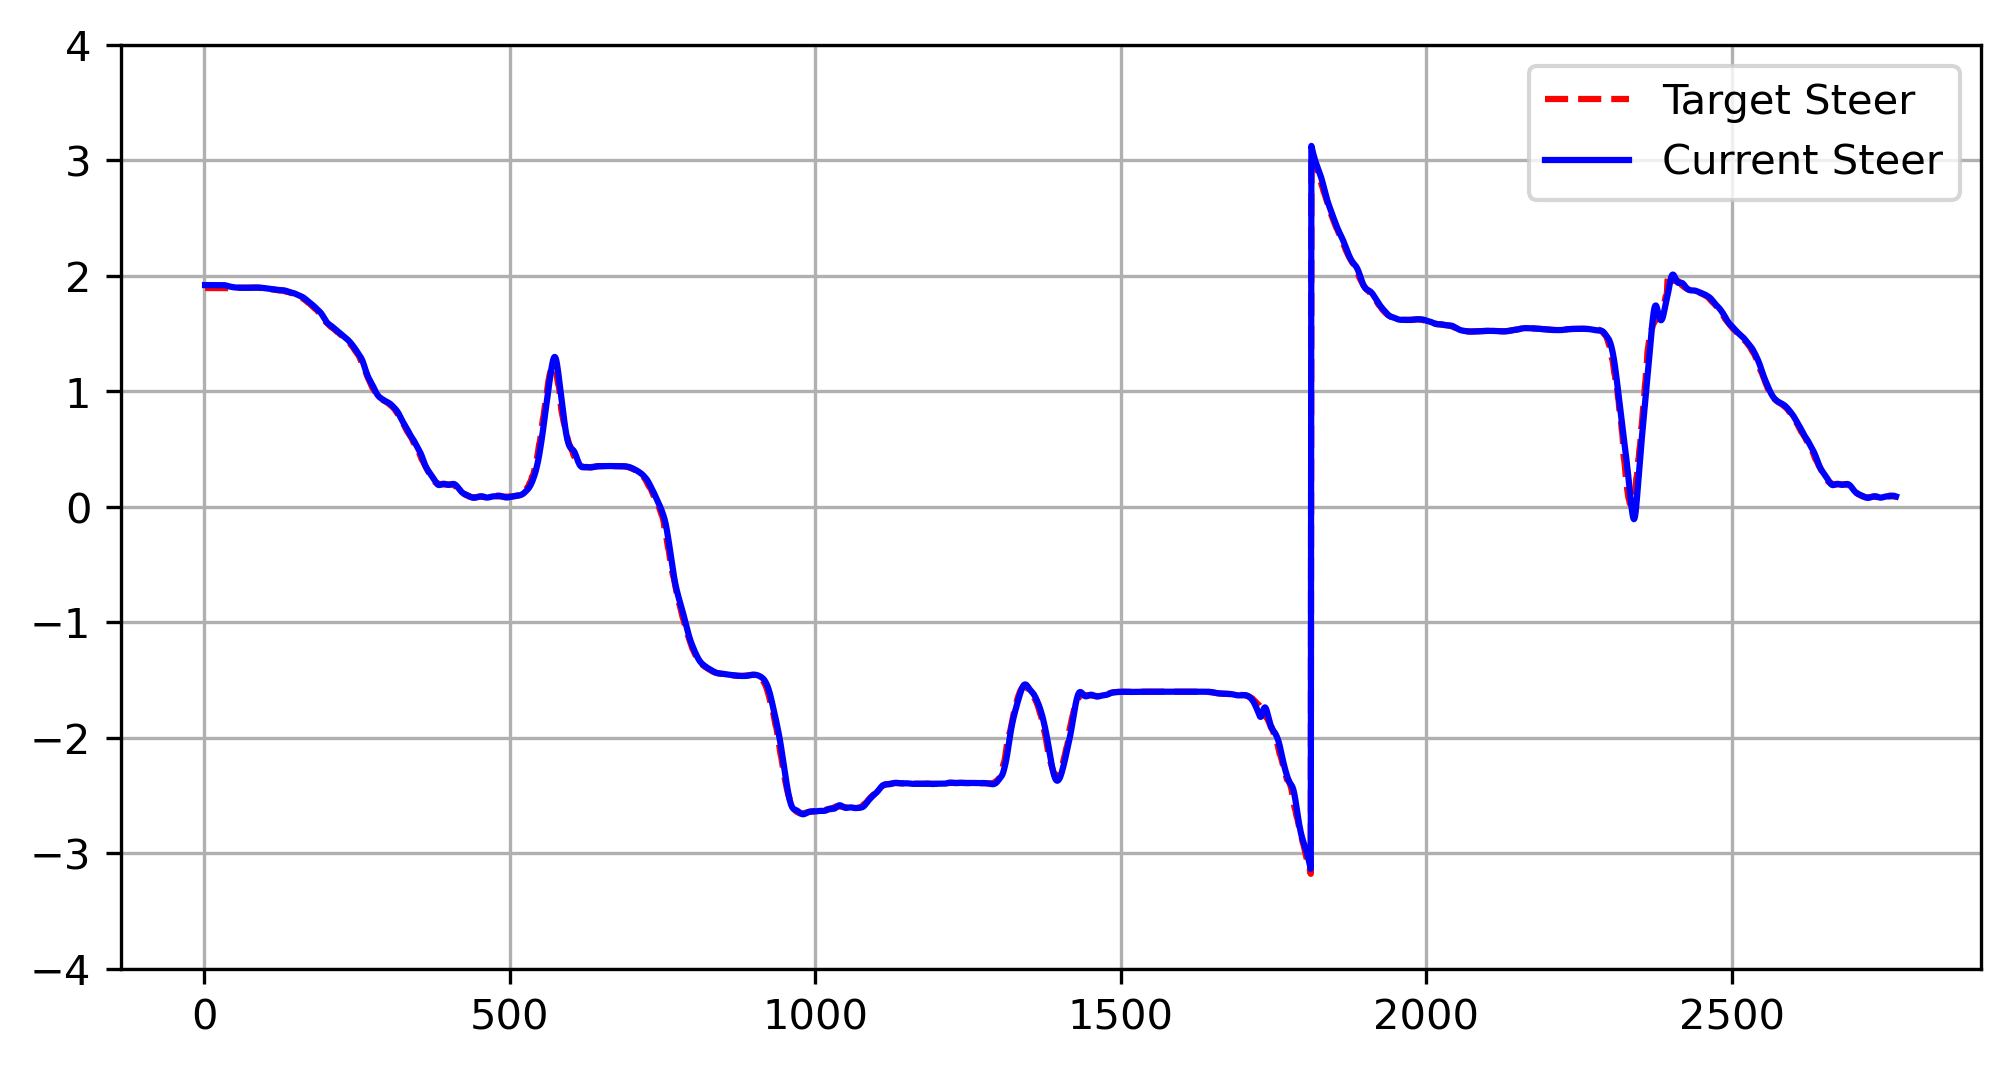
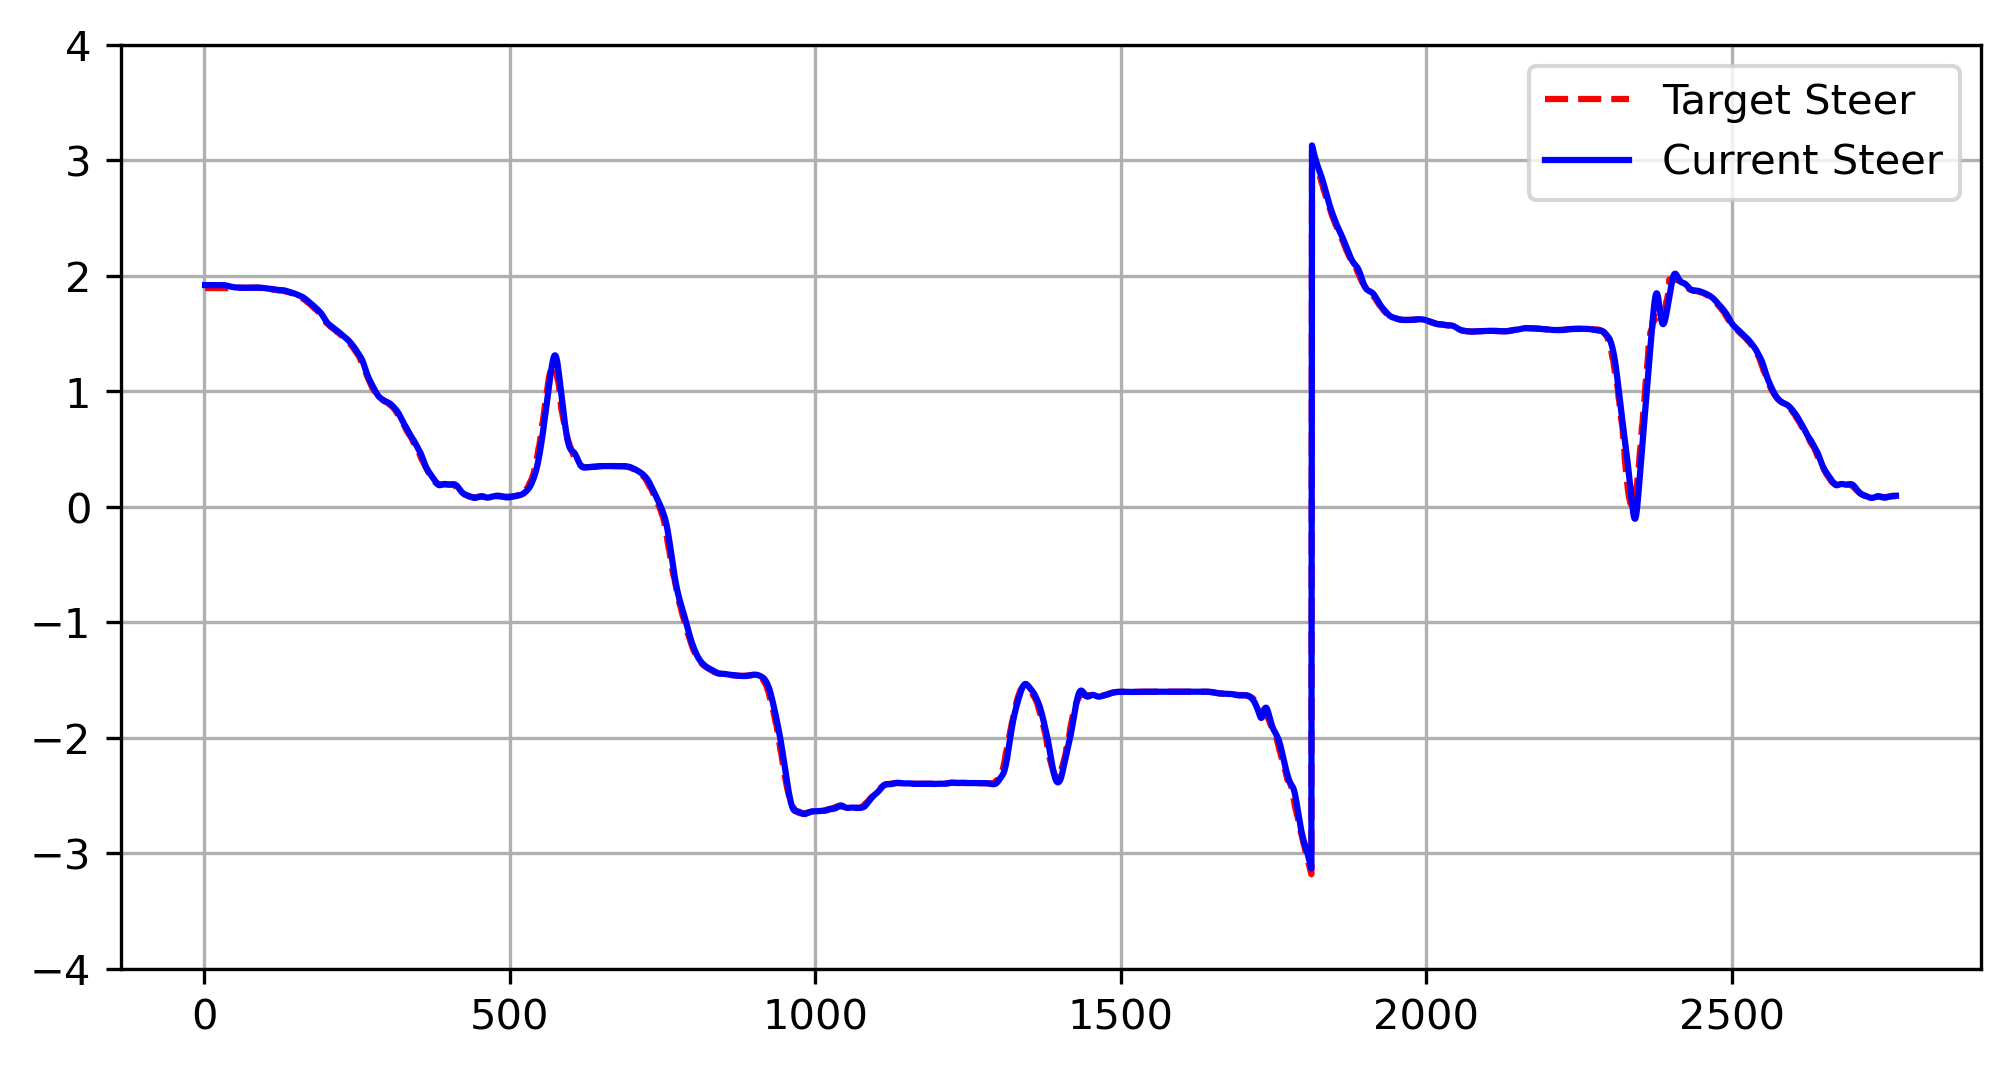
Made steering 0.9

diff --git a/competition_code/submission.py b/competition_code/submission.py
@@ -56,7 +56,7 @@ class RoarCompetitionSolution:
         )
 
         self.speed_controller = PIDController(1.0, 0.1, 0.1, 0.05)
-        self.steer_controller = PIDController(1.0, 0.0, 0.0, 0.05)
+        self.steer_controller = PIDController(0.9, 0.0, 0.0, 0.05)
 
         plt.ion()
         self.fig, self.ax = plt.subplots(figsize=(8, 4))
@@ -130,6 +130,6 @@ class RoarCompetitionSolution:
             "reverse": 0,
             "target_gear": 0
         }
-        print(f"Throttle: {throttle_normalized}, Target Speed: {target_speed}, Current Speed: {vehicle_velocity_norm}, Steer Control: {steer_control}, Target Heading: {target_steer}, Vehicle Heading: {current_steer}")
+        #print(f"Throttle: {throttle_normalized}, Target Speed: {target_speed}, Current Speed: {vehicle_velocity_norm}, Steer Control: {steer_control}, Target Heading: {target_steer}, Vehicle Heading: {current_steer}")
         await self.vehicle.apply_action(control)
         return control

diff --git a/competition_code/waypoints/plot_waypoints.py b/competition_code/waypoints/plot_waypoints.py
@@ -513,7 +513,7 @@ class TrackEditor:
 
 if __name__ == "__main__":
     REFERENCE_TRACK = "competition_code/waypoints/Monza.npz"
-    EDITABLE_PATH = "competition_code/waypoints/output_waypointsPrimary1.npz"
+    EDITABLE_PATH = "competition_code/waypoints/output_output_waypointsPrimary1.npz"
     
     if os.path.exists(REFERENCE_TRACK) and os.path.exists(EDITABLE_PATH):
         print(f"Loading {REFERENCE_TRACK} as boundaries...")
